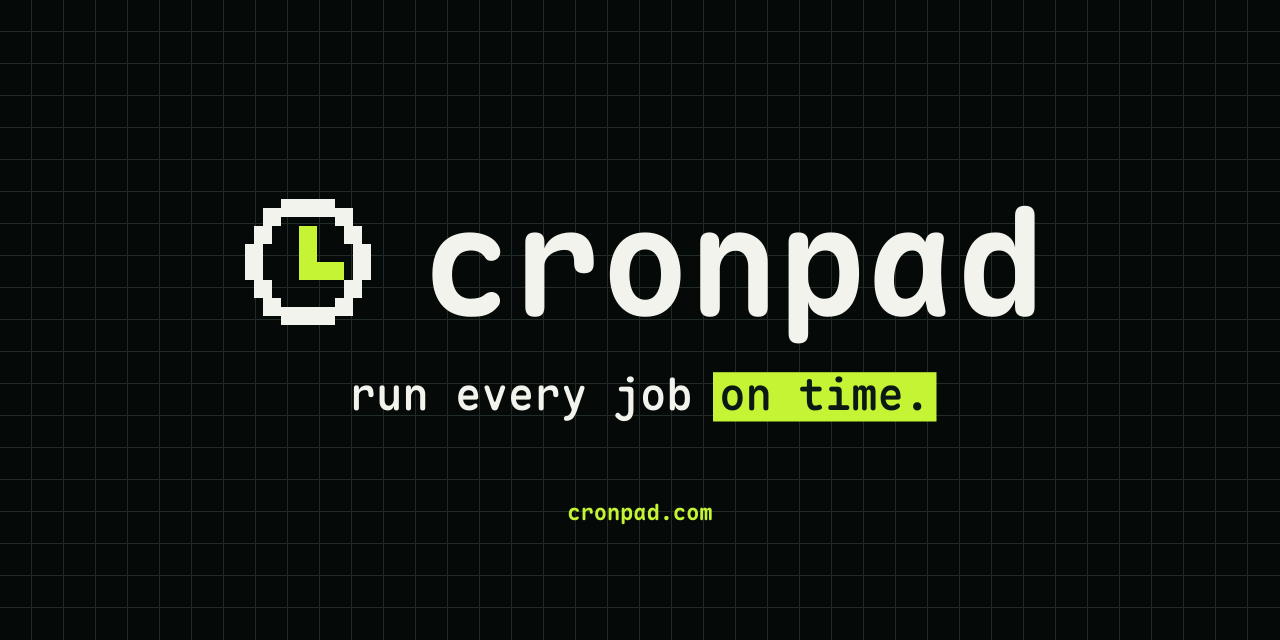
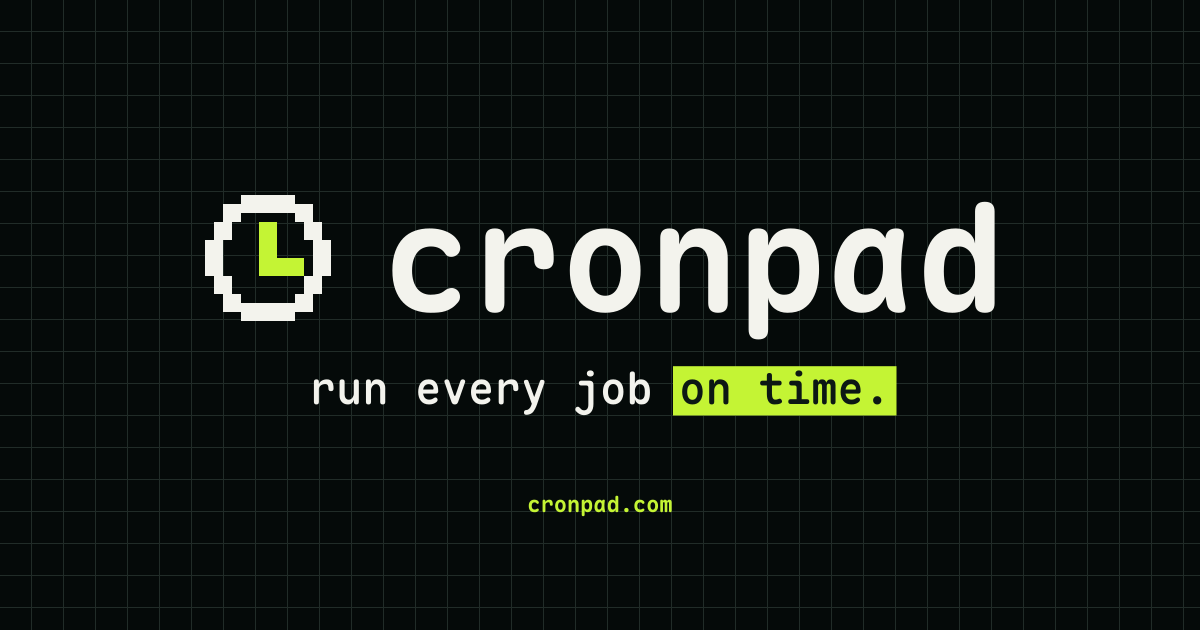
use the standard 1200x630 open graph image

diff --git a/web/index.html b/web/index.html
@@ -15,8 +15,8 @@
     <!-- The server makes /og.png absolute from server.public_url. -->
     <meta property="og:image" content="/og.png" />
     <meta property="og:image:type" content="image/png" />
-    <meta property="og:image:width" content="1280" />
-    <meta property="og:image:height" content="640" />
+    <meta property="og:image:width" content="1200" />
+    <meta property="og:image:height" content="630" />
     <meta property="og:image:alt" content="cronpad: run every job on time." />
     <meta name="twitter:card" content="summary_large_image" />
     <meta name="twitter:image" content="/og.png" />
